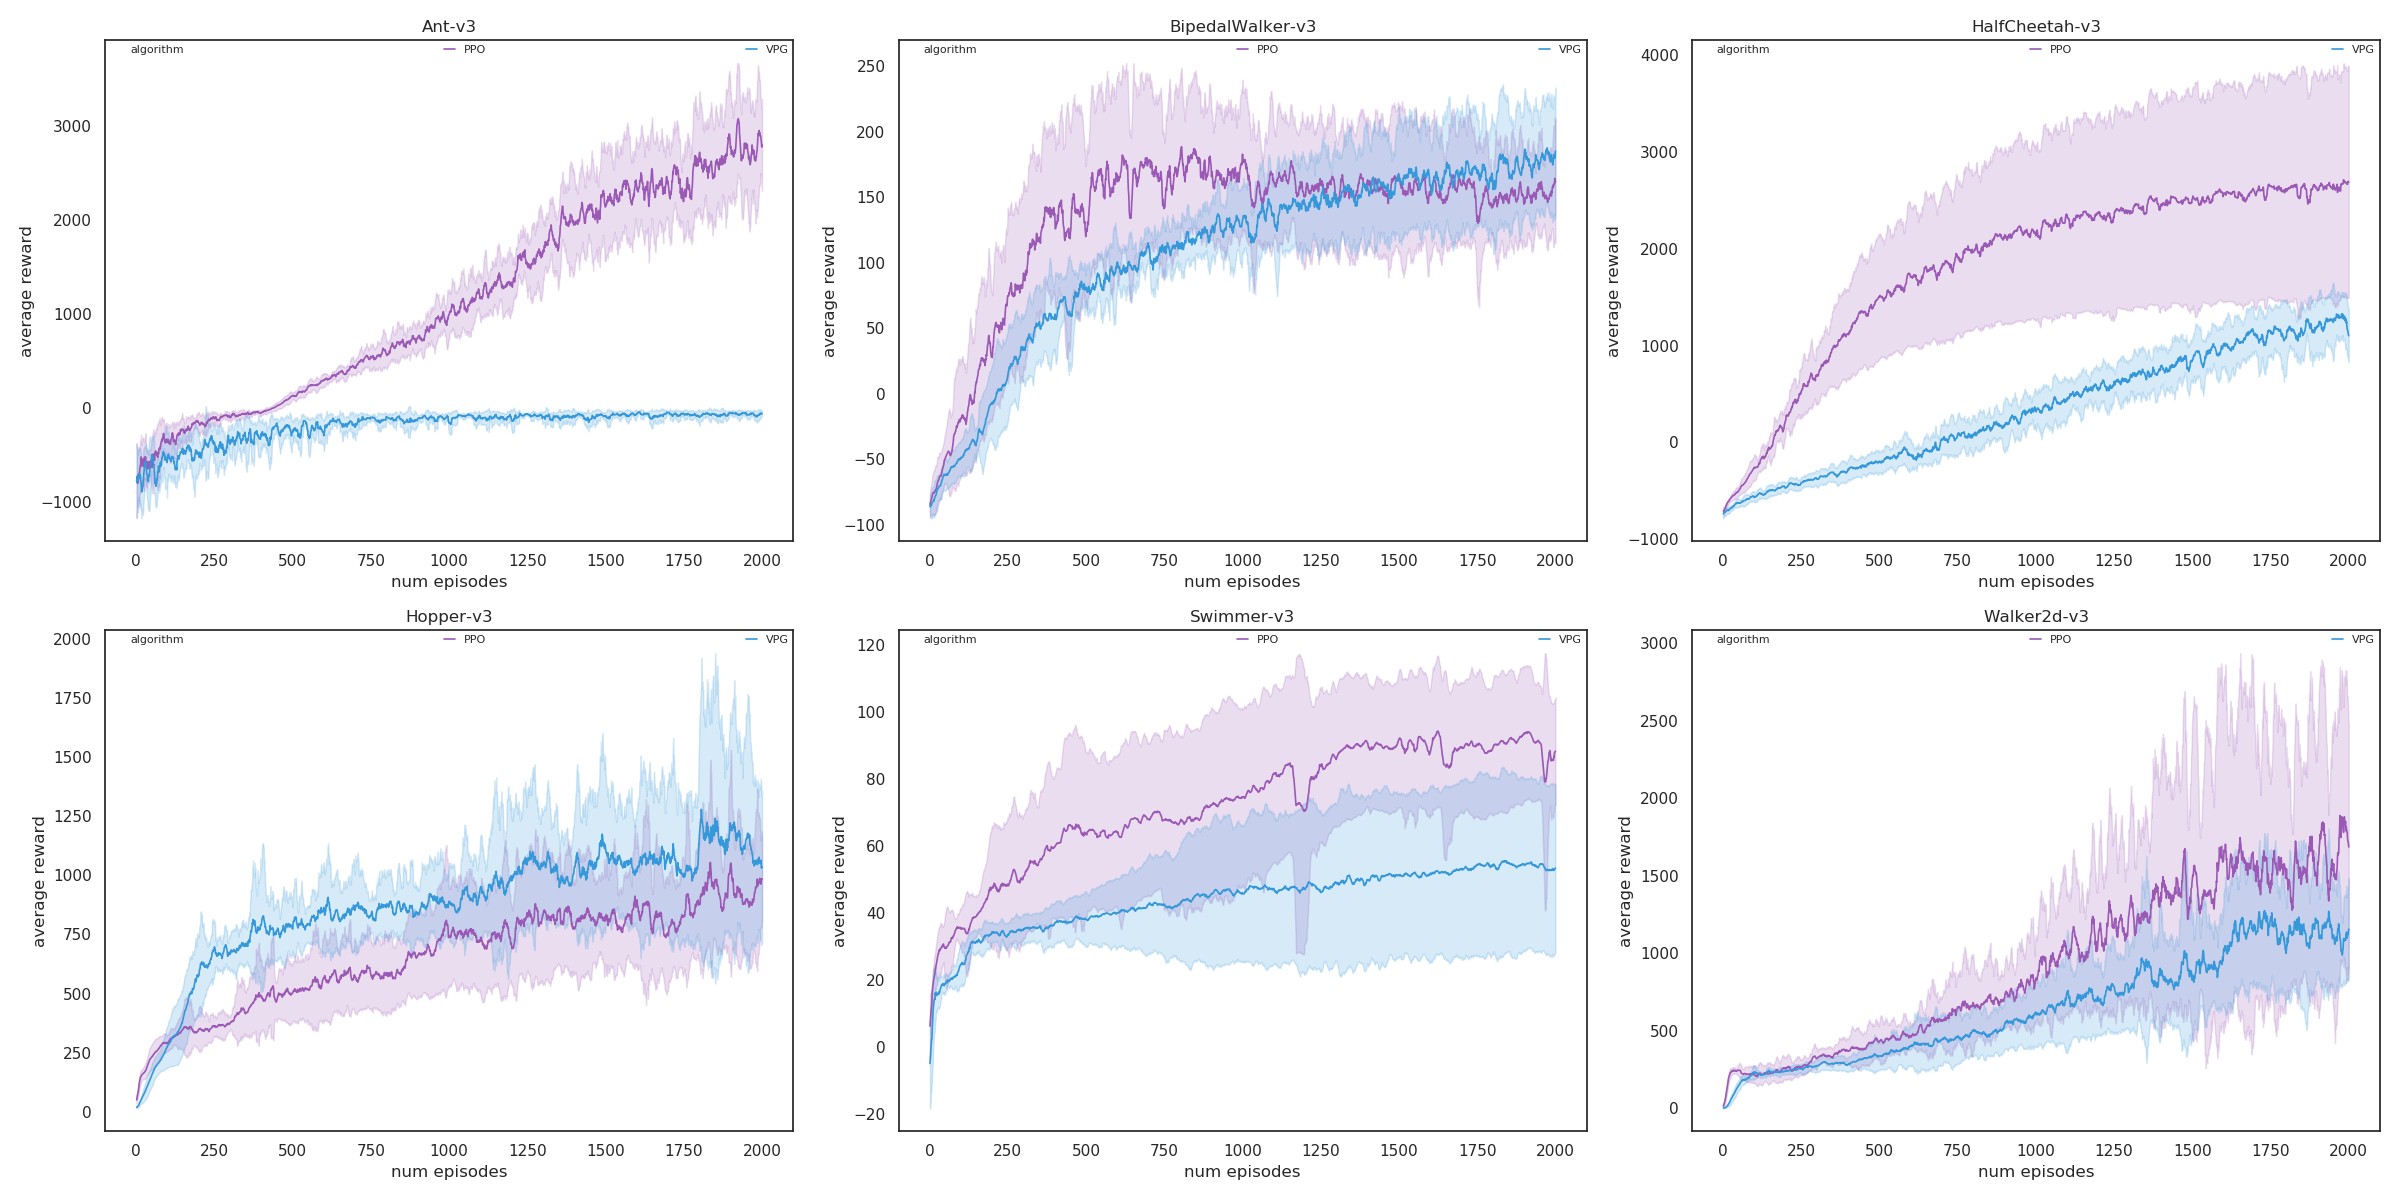
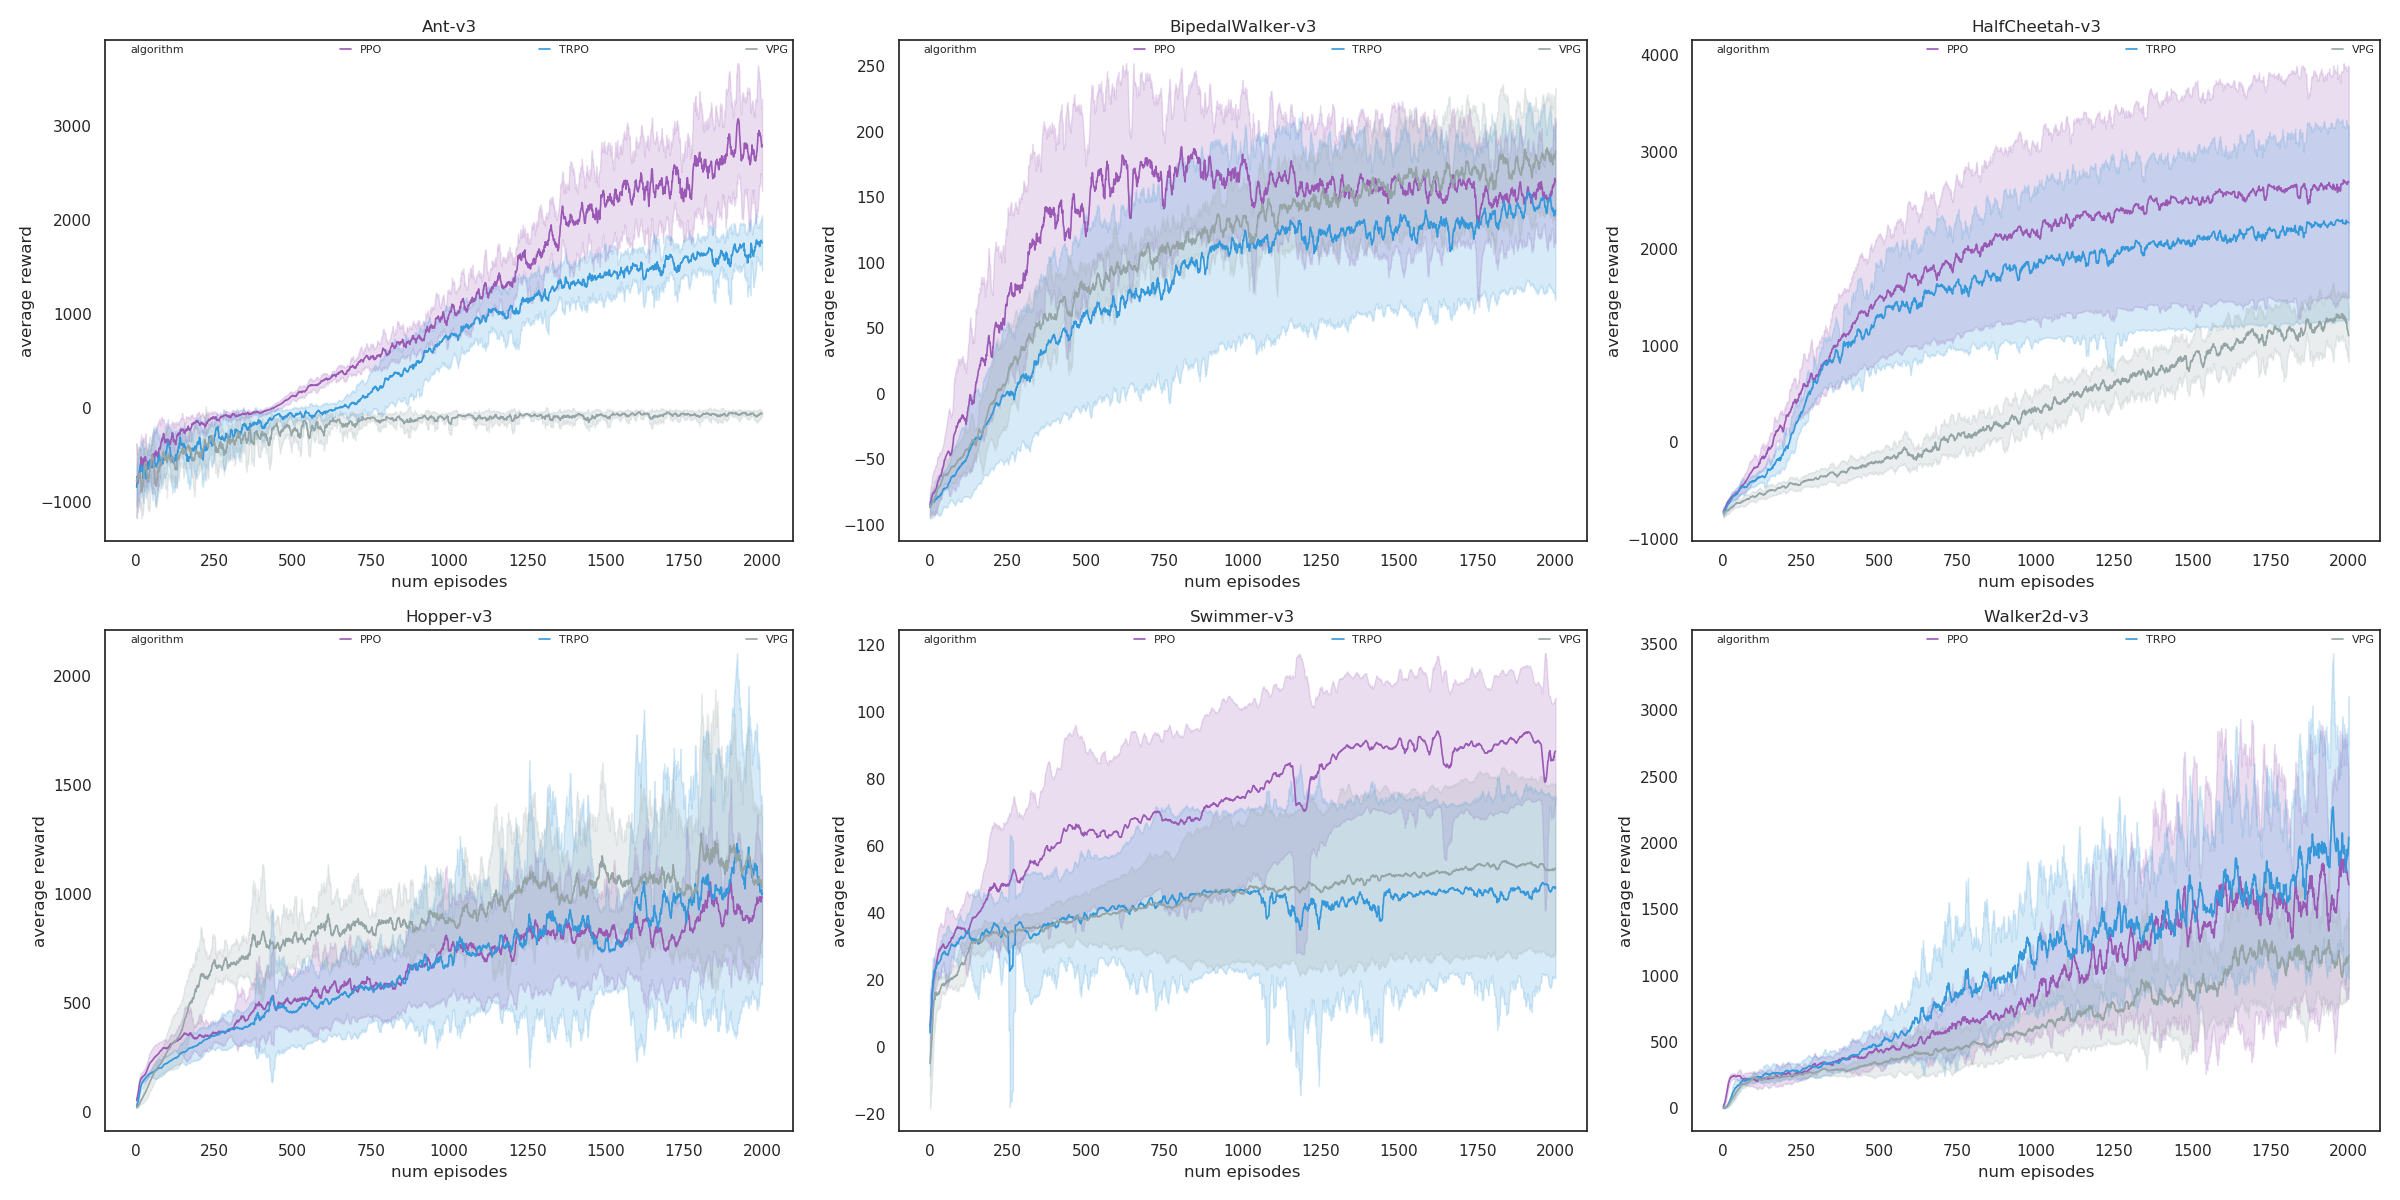
add tf2 TRPO benchmark

diff --git a/Utils/plot_util.py b/Utils/plot_util.py
@@ -164,7 +164,7 @@ def plot_all_logs(log_dir=None, x_axis=None, y_axis=None, hue=None, smooth=1, en
                       smooth=smooth, title=env_id, hue=hue, ax=ax)
             k += 1
     plt.show()
-    plt.savefig("../Algorithms/images/bench_vpg_tf2.png")
+    plt.savefig("../Algorithms/images/bench_trpo_tf2.png")
 
 
 def make_plot(data, x_axis=None, y_axis=None, title=None, hue=None, smooth=1, estimator='mean', ax=None):
@@ -210,9 +210,7 @@ if __name__ == "__main__":
     def env_filter_func_pg(x): return x.split(os.sep)[-1] in ["HalfCheetah-v3", "Hopper-v3", "Walker2d-v3", "Swimmer-v3",
                                                               "Ant-v3", "BipedalWalker-v3"]
 
-    def alg_filter_func_ppo(x): return x.split(os.sep)[-1].rsplit("_")[0] in ["VPG"]
+    def alg_filter_func(x): return x.split(os.sep)[-1].rsplit("_")[0] in ["TRPO"]
 
-    def alg_filter_func(x): return x.split(os.sep)[-1].rsplit("_")[0] in []
-
-    main(env_filter_func=None, alg_filter_func=alg_filter_func_ppo)
+    main(env_filter_func=None, alg_filter_func=alg_filter_func)
     sns.despine()

diff --git a/README.md b/README.md
@@ -109,6 +109,6 @@ All the plots in this project are drawn by this plot util.
 
 #### **Tensorflow2 Version**
 
-Currently only `VPG` and `PPO` Available:
+Currently only `VPG`, `PPO` and `TRPO` Available:
 
 ![bench_pg_tf2](Algorithms/images/bench_pg_tf2.png)
